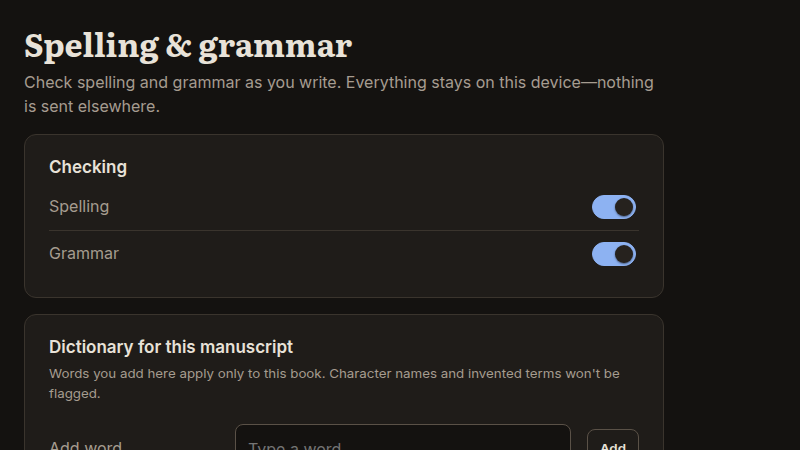
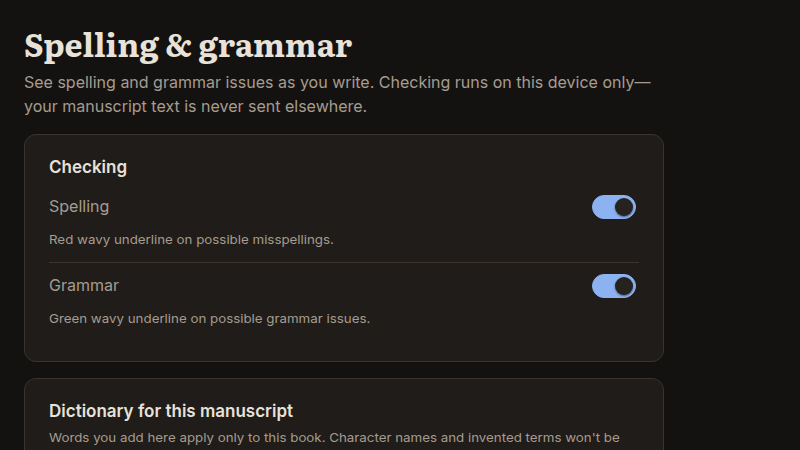
Designer fixes for spell menu and settings copy (#159).
Return editor focus when the spell menu closes, cap suggestions at three, align settings copy with mockups, and refresh sc4 evidence captures.

diff --git a/apps/desktop/src/spellcheck/SpellMenu.test.ts b/apps/desktop/src/spellcheck/SpellMenu.test.ts
@@ -1,0 +1,103 @@
+import { afterEach, describe, expect, it } from 'vitest';
+import { enableAutoUnmount, flushPromises, mount } from '@vue/test-utils';
+import type { SpellIssue } from '@coauthor/editor';
+import SpellMenu from './SpellMenu.vue';
+
+enableAutoUnmount(afterEach);
+
+function issue(partial: Partial<SpellIssue> & Pick<SpellIssue, 'kind'>): SpellIssue {
+  return {
+    id: '1',
+    from: 1,
+    to: 2,
+    message: 'Test message',
+    suggestions: ['one', 'two', 'three', 'four'],
+    word: 'test',
+    ...partial,
+  };
+}
+
+describe('SpellMenu (#159)', () => {
+  it('uses Spelling or Grammar as the menu aria-label', () => {
+    const spelling = mount(SpellMenu, {
+      attachTo: document.body,
+      props: { x: 0, y: 0, issue: issue({ kind: 'spelling' }) },
+    });
+    expect(spelling.get('[role=menu]').attributes('aria-label')).toBe('Spelling');
+    spelling.unmount();
+
+    const grammar = mount(SpellMenu, {
+      attachTo: document.body,
+      props: { x: 0, y: 0, issue: issue({ kind: 'grammar' }) },
+    });
+    expect(grammar.get('[role=menu]').attributes('aria-label')).toBe('Grammar');
+  });
+
+  it('shows at most three suggestions', () => {
+    const w = mount(SpellMenu, {
+      attachTo: document.body,
+      props: { x: 0, y: 0, issue: issue({ kind: 'spelling' }) },
+    });
+    expect(w.findAll('[data-action=suggest]')).toHaveLength(3);
+    expect(w.text()).toContain('one');
+    expect(w.text()).not.toContain('four');
+  });
+
+  it('returns focus to the editor on Escape, Ignore, and Add to dictionary', async () => {
+    const editor = document.createElement('div');
+    editor.className = 'ProseMirror';
+    editor.tabIndex = 0;
+    const shell = document.createElement('div');
+    shell.className = 'manuscript-editor';
+    shell.append(editor);
+    document.body.append(shell);
+    editor.focus();
+    expect(document.activeElement).toBe(editor);
+
+    const w = mount(SpellMenu, {
+      attachTo: document.body,
+      props: { x: 0, y: 0, issue: issue({ kind: 'spelling' }) },
+    });
+    await flushPromises();
+    expect(document.activeElement?.getAttribute('data-action')).toBe('suggest');
+
+    await w.trigger('keydown', { key: 'Escape' });
+    await flushPromises();
+    expect(document.activeElement).toBe(editor);
+
+    editor.blur();
+    w.get('[data-test=spell-ignore]').element.focus();
+    await w.get('[data-test=spell-ignore]').trigger('click');
+    await flushPromises();
+    expect(document.activeElement).toBe(editor);
+
+    editor.blur();
+    w.get('[data-test=spell-dictionary]').element.focus();
+    await w.get('[data-test=spell-dictionary]').trigger('click');
+    await flushPromises();
+    expect(document.activeElement).toBe(editor);
+
+    shell.remove();
+  });
+
+  it('returns focus to the editor when unmounted (backdrop dismiss)', async () => {
+    const editor = document.createElement('div');
+    editor.className = 'ProseMirror';
+    editor.tabIndex = 0;
+    const shell = document.createElement('div');
+    shell.className = 'manuscript-editor';
+    shell.append(editor);
+    document.body.append(shell);
+    editor.focus();
+
+    const w = mount(SpellMenu, {
+      attachTo: document.body,
+      props: { x: 0, y: 0, issue: issue({ kind: 'grammar' }) },
+    });
+    await flushPromises();
+    w.unmount();
+    await flushPromises();
+    expect(document.activeElement).toBe(editor);
+    shell.remove();
+  });
+});

diff --git a/apps/desktop/src/spellcheck/DictionarySection.test.ts b/apps/desktop/src/spellcheck/DictionarySection.test.ts
@@ -1,0 +1,71 @@
+import { afterEach, beforeEach, describe, expect, it, vi } from 'vitest';
+import { enableAutoUnmount, flushPromises, mount } from '@vue/test-utils';
+import DictionarySection from './DictionarySection.vue';
+import { SPELL_PREFS_KEY } from '../settings/prefs';
+
+vi.mock('../backend', () => ({
+  spellDictionaryList: vi.fn(),
+  spellDictionaryAdd: vi.fn(),
+  spellDictionaryRemove: vi.fn(),
+}));
+
+import { spellDictionaryAdd, spellDictionaryList, spellDictionaryRemove } from '../backend';
+
+enableAutoUnmount(afterEach);
+
+beforeEach(() => {
+  localStorage.removeItem(SPELL_PREFS_KEY);
+  vi.mocked(spellDictionaryList).mockReset();
+  vi.mocked(spellDictionaryAdd).mockReset();
+  vi.mocked(spellDictionaryRemove).mockReset();
+});
+
+describe('DictionarySection (#159)', () => {
+  it('shows mockup intro and toggle helper copy', () => {
+    vi.mocked(spellDictionaryList).mockResolvedValue([]);
+    const w = mount(DictionarySection, {
+      props: { manuscriptId: 'book-1', backendAvailable: true },
+    });
+    const text = w.get('[data-test=settings-spelling]').text();
+    expect(text).toContain('Checking runs on this device only');
+    expect(text).toContain('Red wavy underline on possible misspellings.');
+    expect(text).toContain('Green wavy underline on possible grammar issues.');
+  });
+
+  it('shows sc5 empty dictionary copy before the add-word field', async () => {
+    vi.mocked(spellDictionaryList).mockResolvedValue([]);
+    const w = mount(DictionarySection, {
+      props: { manuscriptId: 'book-1', backendAvailable: true },
+    });
+    await flushPromises();
+    expect(w.get('[data-test=dict-empty]').text()).toBe('No custom words yet.');
+    expect(w.find('[data-test=dict-list]').exists()).toBe(false);
+  });
+
+  it('labels each Remove control with the word', async () => {
+    vi.mocked(spellDictionaryList).mockResolvedValue(['Harborwick', 'foghorn']);
+    const w = mount(DictionarySection, {
+      props: { manuscriptId: 'book-1', backendAvailable: true },
+    });
+    await flushPromises();
+    expect(w.get('[data-test=dict-remove-Harborwick]').attributes('aria-label')).toBe(
+      'Remove Harborwick',
+    );
+    expect(w.get('[data-test=dict-remove-foghorn]').attributes('aria-label')).toBe(
+      'Remove foghorn',
+    );
+  });
+
+  it('loads and removes dictionary words through the backend', async () => {
+    vi.mocked(spellDictionaryList).mockResolvedValueOnce(['alpha']).mockResolvedValueOnce([]);
+    vi.mocked(spellDictionaryRemove).mockResolvedValue(undefined);
+    const w = mount(DictionarySection, {
+      props: { manuscriptId: 'book-1', backendAvailable: true },
+    });
+    await flushPromises();
+    await w.get('[data-test=dict-remove-alpha]').trigger('click');
+    await flushPromises();
+    expect(spellDictionaryRemove).toHaveBeenCalledWith('book-1', 'alpha');
+    expect(spellDictionaryAdd).not.toHaveBeenCalled();
+  });
+});

diff --git a/apps/desktop/src/spellcheck/SpellMenu.vue b/apps/desktop/src/spellcheck/SpellMenu.vue
@@ -1,7 +1,7 @@
 <script setup lang="ts">
 /** Context menu for a spelling or grammar flag (#159 sc2/sc3). */
 import type { SpellIssue } from '@coauthor/editor';
-import { nextTick, onMounted, ref } from 'vue';
+import { computed, nextTick, onBeforeUnmount, onMounted, ref } from 'vue';
 
 const props = defineProps<{
   x: number;
@@ -16,6 +16,17 @@ const emit = defineEmits<{
 }>();
 
 const root = ref<HTMLElement>();
+const opener = document.activeElement as HTMLElement | null;
+
+const visibleSuggestions = computed(() => props.issue.suggestions.slice(0, 3));
+const kindLabel = computed(() => (props.issue.kind === 'spelling' ? 'Spelling' : 'Grammar'));
+
+function restoreEditorFocus() {
+  void nextTick(() => {
+    const page = document.querySelector<HTMLElement>('.manuscript-editor .ProseMirror');
+    (page ?? opener)?.focus?.();
+  });
+}
 
 function menuItems() {
   return [...(root.value?.querySelectorAll<HTMLElement>('[role=menuitem]') ?? [])];
@@ -40,12 +51,22 @@ function onKey(e: KeyboardEvent) {
   if (e.key === 'Escape') {
     e.stopPropagation();
     emit('close');
+    restoreEditorFocus();
   }
 }
 
-onMounted(() => void nextTick(() => menuItems()[0]?.focus()));
+function onIgnore() {
+  emit('ignore');
+  restoreEditorFocus();
+}
 
-const kindLabel = props.issue.kind === 'spelling' ? 'Spelling' : 'Grammar';
+function onDictionary() {
+  emit('dictionary');
+  restoreEditorFocus();
+}
+
+onMounted(() => void nextTick(() => menuItems()[0]?.focus()));
+onBeforeUnmount(restoreEditorFocus);
 </script>
 
 <template>
@@ -53,7 +74,7 @@ const kindLabel = props.issue.kind === 'spelling' ? 'Spelling' : 'Grammar';
     ref="root"
     class="sh-menu spell-menu"
     role="menu"
-    aria-label="Spelling and grammar"
+    :aria-label="kindLabel"
     data-test="spell-menu"
     :style="{ left: `${x}px`, top: `${y}px` }"
     @keydown="onKey"
@@ -63,7 +84,7 @@ const kindLabel = props.issue.kind === 'spelling' ? 'Spelling' : 'Grammar';
       <span class="spell-menu__msg">{{ issue.message }}</span>
     </p>
     <button
-      v-for="(s, i) in issue.suggestions"
+      v-for="(s, i) in visibleSuggestions"
       :key="s"
       type="button"
       role="menuitem"
@@ -84,7 +105,7 @@ const kindLabel = props.issue.kind === 'spelling' ? 'Spelling' : 'Grammar';
       tabindex="-1"
       class="sh-mi"
       data-test="spell-dictionary"
-      @click="emit('dictionary')"
+      @click="onDictionary"
     >
       Add to dictionary
     </button>
@@ -94,7 +115,7 @@ const kindLabel = props.issue.kind === 'spelling' ? 'Spelling' : 'Grammar';
       tabindex="-1"
       class="sh-mi"
       data-test="spell-ignore"
-      @click="emit('ignore')"
+      @click="onIgnore"
     >
       Ignore
     </button>

diff --git a/apps/desktop/src/spellcheck/DictionarySection.vue b/apps/desktop/src/spellcheck/DictionarySection.vue
@@ -72,8 +72,8 @@ async function removeWord(word: string) {
   <div data-test="settings-spelling">
     <h1 class="st-h1">Spelling &amp; grammar</h1>
     <p class="st-muted st-sub">
-      Check spelling and grammar as you write. Everything stays on this device—nothing is sent
-      elsewhere.
+      See spelling and grammar issues as you write. Checking runs on this device only—your
+      manuscript text is never sent elsewhere.
     </p>
     <section class="st-card" aria-labelledby="st-spell-toggles">
       <h2 id="st-spell-toggles" class="st-h2">Checking</h2>
@@ -91,6 +91,7 @@ async function removeWord(word: string) {
           @change="persistPrefs"
         />
       </div>
+      <p class="st-muted st-desc">Red wavy underline on possible misspellings.</p>
       <div class="st-row st-row--toggle">
         <span id="spell-grammar-label" class="st-row__k">Grammar</span>
         <input
@@ -105,13 +106,14 @@ async function removeWord(word: string) {
           @change="persistPrefs"
         />
       </div>
-      <p class="st-muted st-desc">
-        Both are on by default. Turn either off to hide its underlines.
-      </p>
+      <p class="st-muted st-desc">Green wavy underline on possible grammar issues.</p>
     </section>
     <section v-if="manuscriptId && backendAvailable" class="st-card" aria-labelledby="st-dict">
       <h2 id="st-dict" class="st-h2">Dictionary for this manuscript</h2>
-      <p class="st-muted st-desc">
+      <p v-if="!loading && !words.length" class="st-muted st-desc" data-test="dict-empty">
+        No custom words yet.
+      </p>
+      <p v-else-if="words.length" class="st-muted st-desc">
         Words you add here apply only to this book. Character names and invented terms won't be
         flagged.
       </p>
@@ -140,13 +142,13 @@ async function removeWord(word: string) {
         />
       </label>
       <p v-if="loading" class="st-muted" role="status">Loading…</p>
-      <p v-else-if="!words.length" class="st-muted" data-test="dict-empty">No custom words yet.</p>
-      <ul v-else class="dict-list" data-test="dict-list">
+      <ul v-else-if="words.length" class="dict-list" data-test="dict-list">
         <li v-for="w in filtered" :key="w" class="dict-list__row">
           <bdi dir="auto">{{ w }}</bdi>
           <button
             type="button"
             class="st-btn st-btn--s"
+            :aria-label="`Remove ${w}`"
             :data-test="`dict-remove-${w}`"
             @click="removeWord(w)"
           >

diff --git a/docs/pr-evidence/159/evidence.html b/docs/pr-evidence/159/evidence.html
@@ -129,7 +129,7 @@
 
     <div class="scene scene-sc2">
       <div class="menu-stage">
-        <div class="sh-menu spell-menu" role="menu">
+        <div class="sh-menu spell-menu" role="menu" aria-label="Spelling">
           <p class="spell-menu__head">
             <span class="spell-menu__kind">Spelling</span>
             <span class="spell-menu__msg">Did you mean “lamppost”?</span>
@@ -147,7 +147,7 @@
 
     <div class="scene scene-sc3">
       <div class="menu-stage">
-        <div class="sh-menu spell-menu" role="menu">
+        <div class="sh-menu spell-menu" role="menu" aria-label="Grammar">
           <p class="spell-menu__head">
             <span class="spell-menu__kind">Grammar</span>
             <span class="spell-menu__msg">Use “doesn't” with a singular subject.</span>
@@ -165,8 +165,8 @@
     <div class="scene scene-sc4 settings-wrap">
       <h1 class="st-h1">Spelling &amp; grammar</h1>
       <p class="st-muted st-sub">
-        Check spelling and grammar as you write. Everything stays on this device—nothing is sent
-        elsewhere.
+        See spelling and grammar issues as you write. Checking runs on this device only—your
+        manuscript text is never sent elsewhere.
       </p>
       <section class="st-card">
         <h2 class="st-h2">Checking</h2>
@@ -174,10 +174,12 @@
           <span class="st-row__k">Spelling</span>
           <input type="checkbox" role="switch" class="st-switch" checked />
         </div>
+        <p class="st-muted st-desc">Red wavy underline on possible misspellings.</p>
         <div class="st-row st-row--toggle">
           <span class="st-row__k">Grammar</span>
           <input type="checkbox" role="switch" class="st-switch" checked />
         </div>
+        <p class="st-muted st-desc">Green wavy underline on possible grammar issues.</p>
       </section>
       <section class="st-card">
         <h2 class="st-h2">Dictionary for this manuscript</h2>
